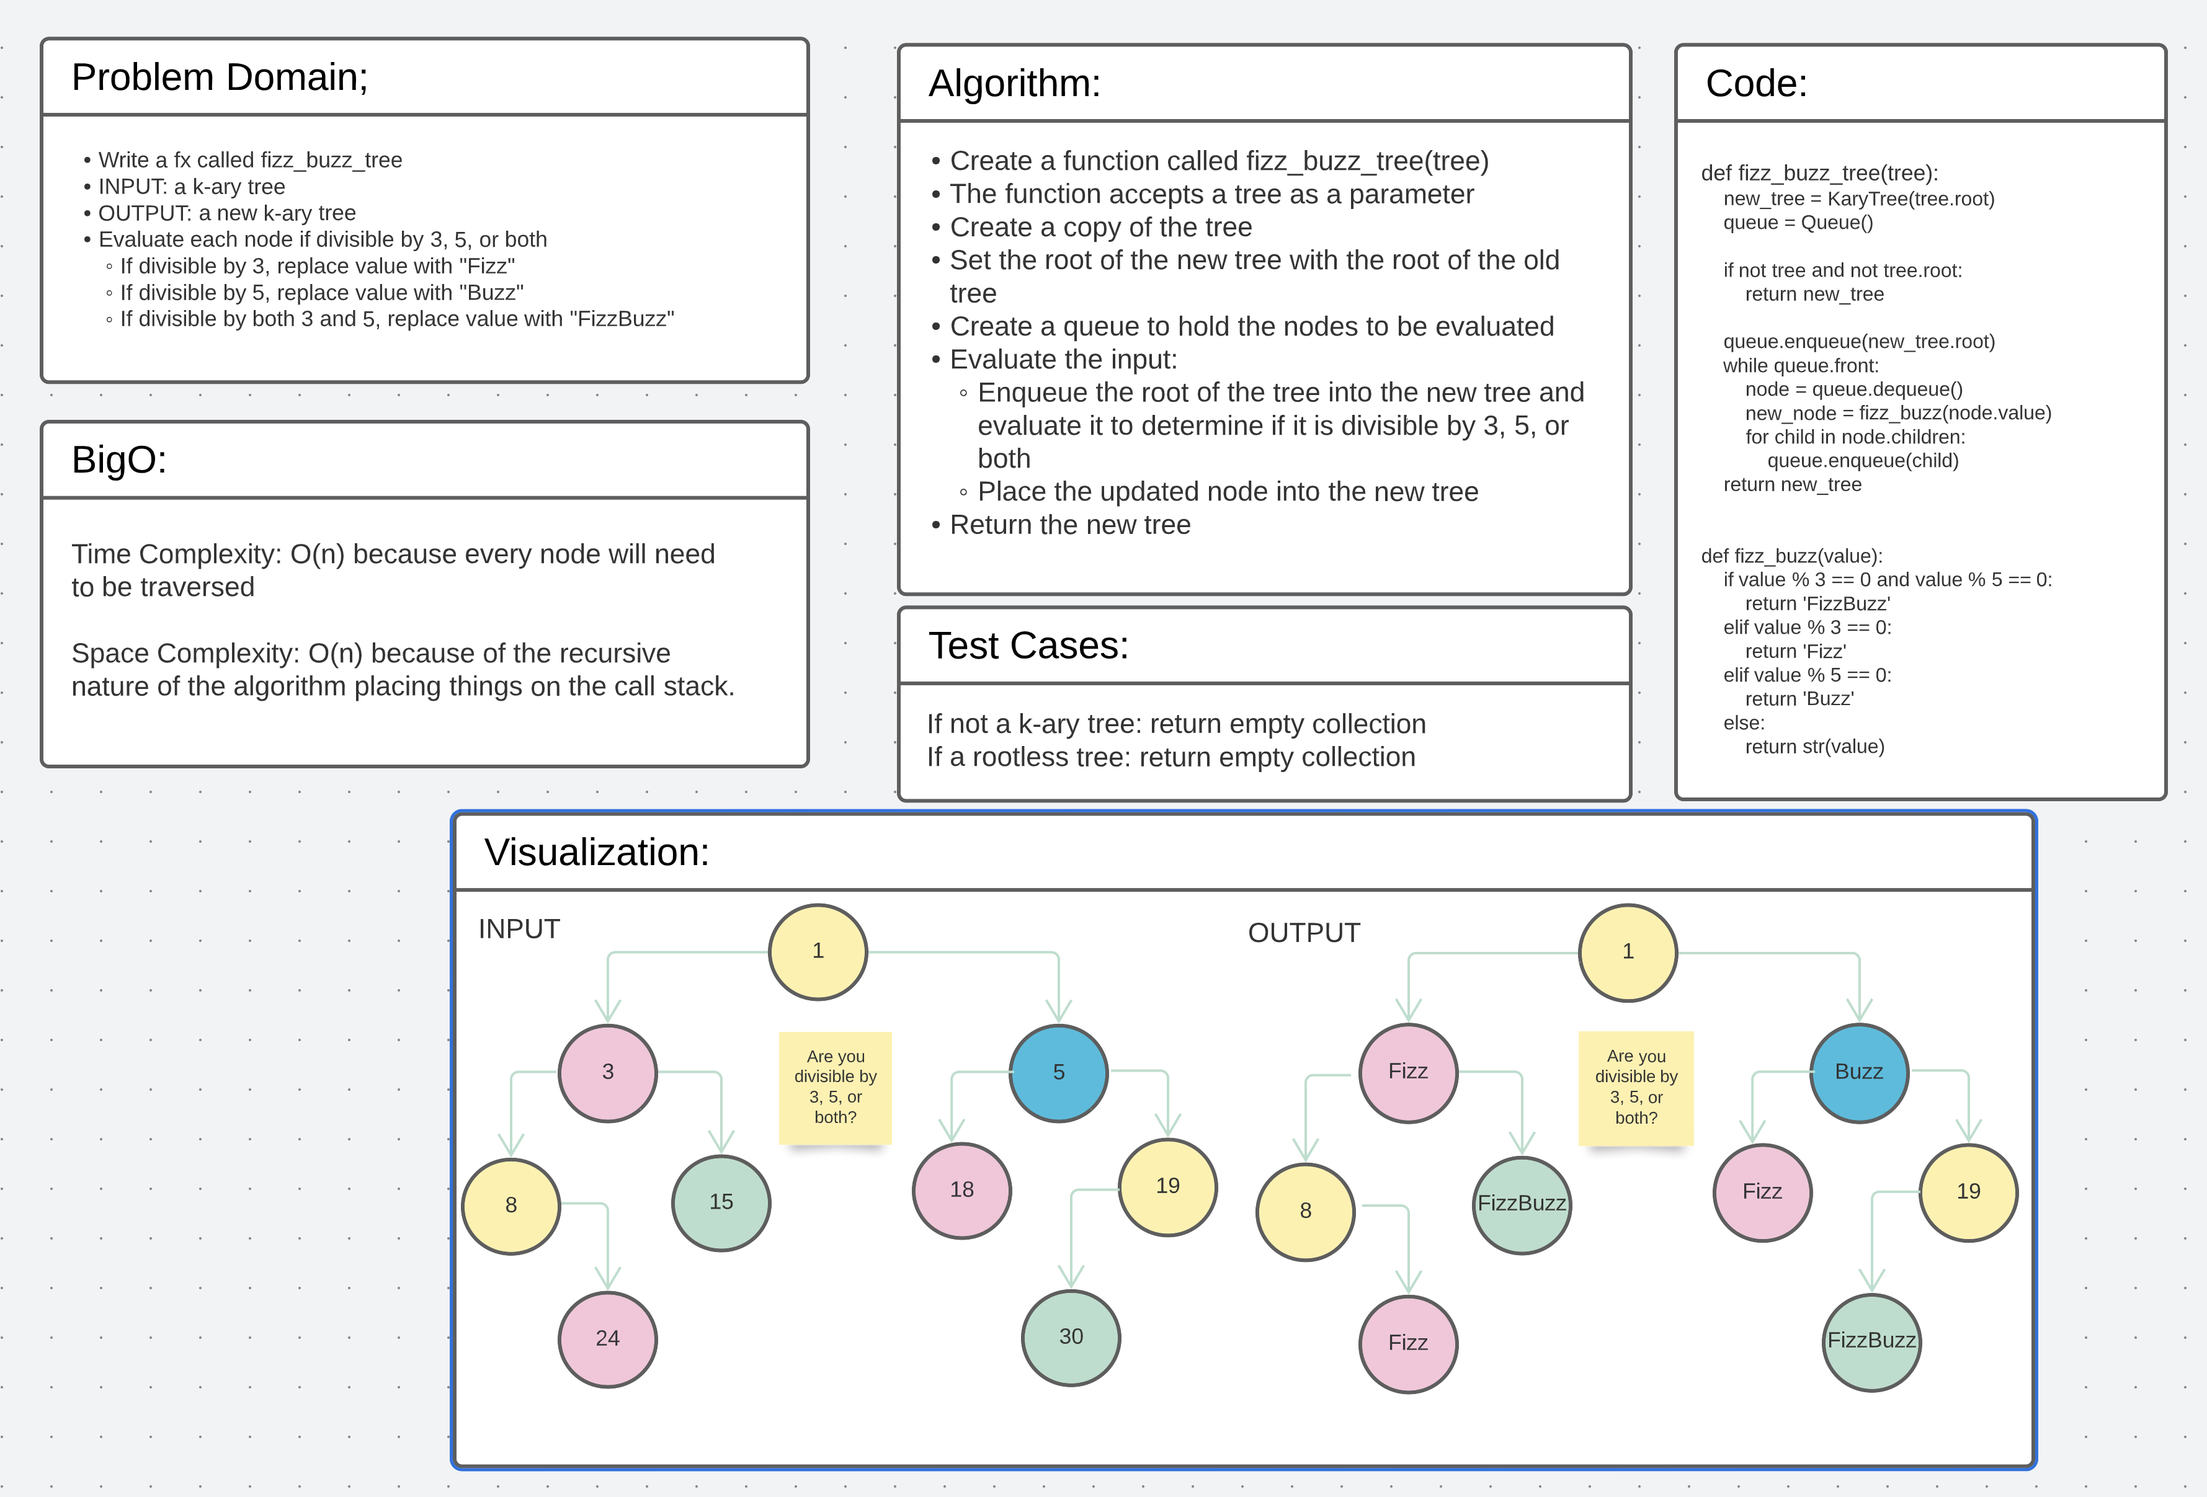
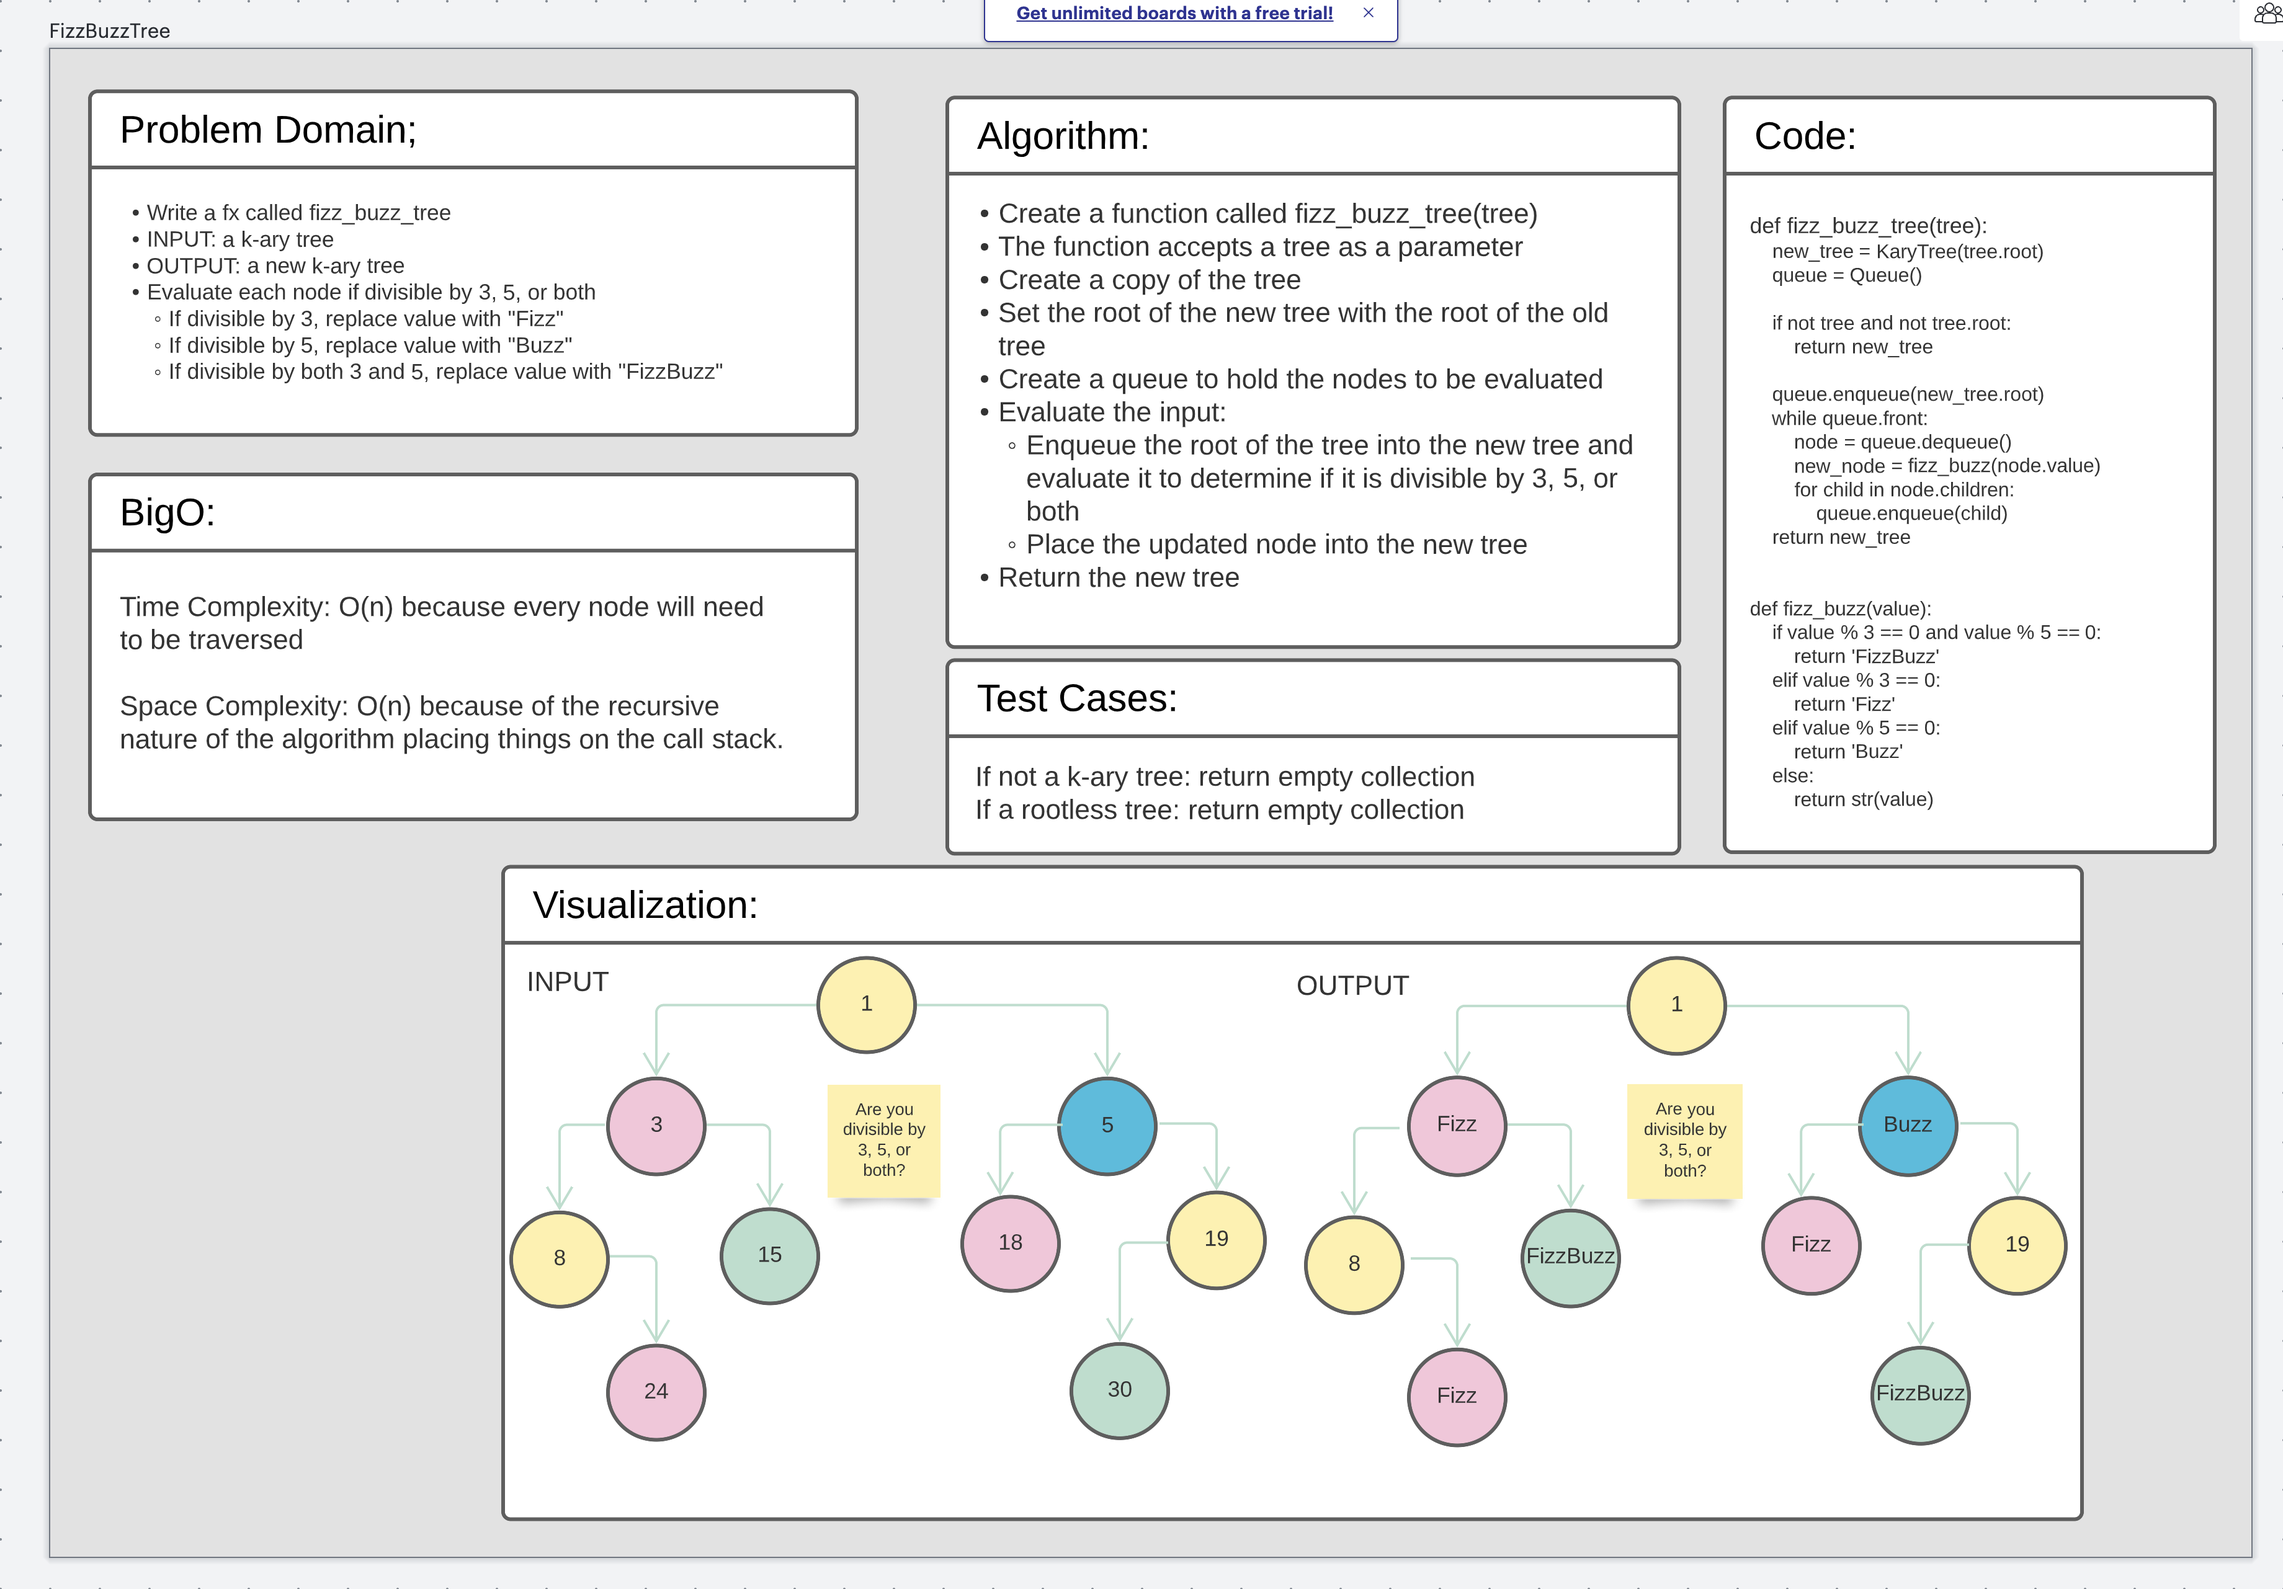
Updated white boards to show labels for different sections of the board

Changed region(s): [[0.0, 0.0, 1.0, 0.9942], [0.5616, 0.5903, 0.6239, 0.6524], [0.6551, 0.6214, 0.7175, 0.6524]]

diff --git a/python/docs/tree_breadth_first/README.md b/python/docs/tree_breadth_first/README.md
@@ -3,7 +3,7 @@ Write a function called breadth_first(tree) that takes in a tree and lists all t
 they were encountered.
 
 ## Whiteboard Process
-![Tree](tree_breadth_first.png)
+![Tree](breadth_first.png)
 
 ## Approach & Efficiency
 [Code](/code_challenges/tree_breadth_first.py)
